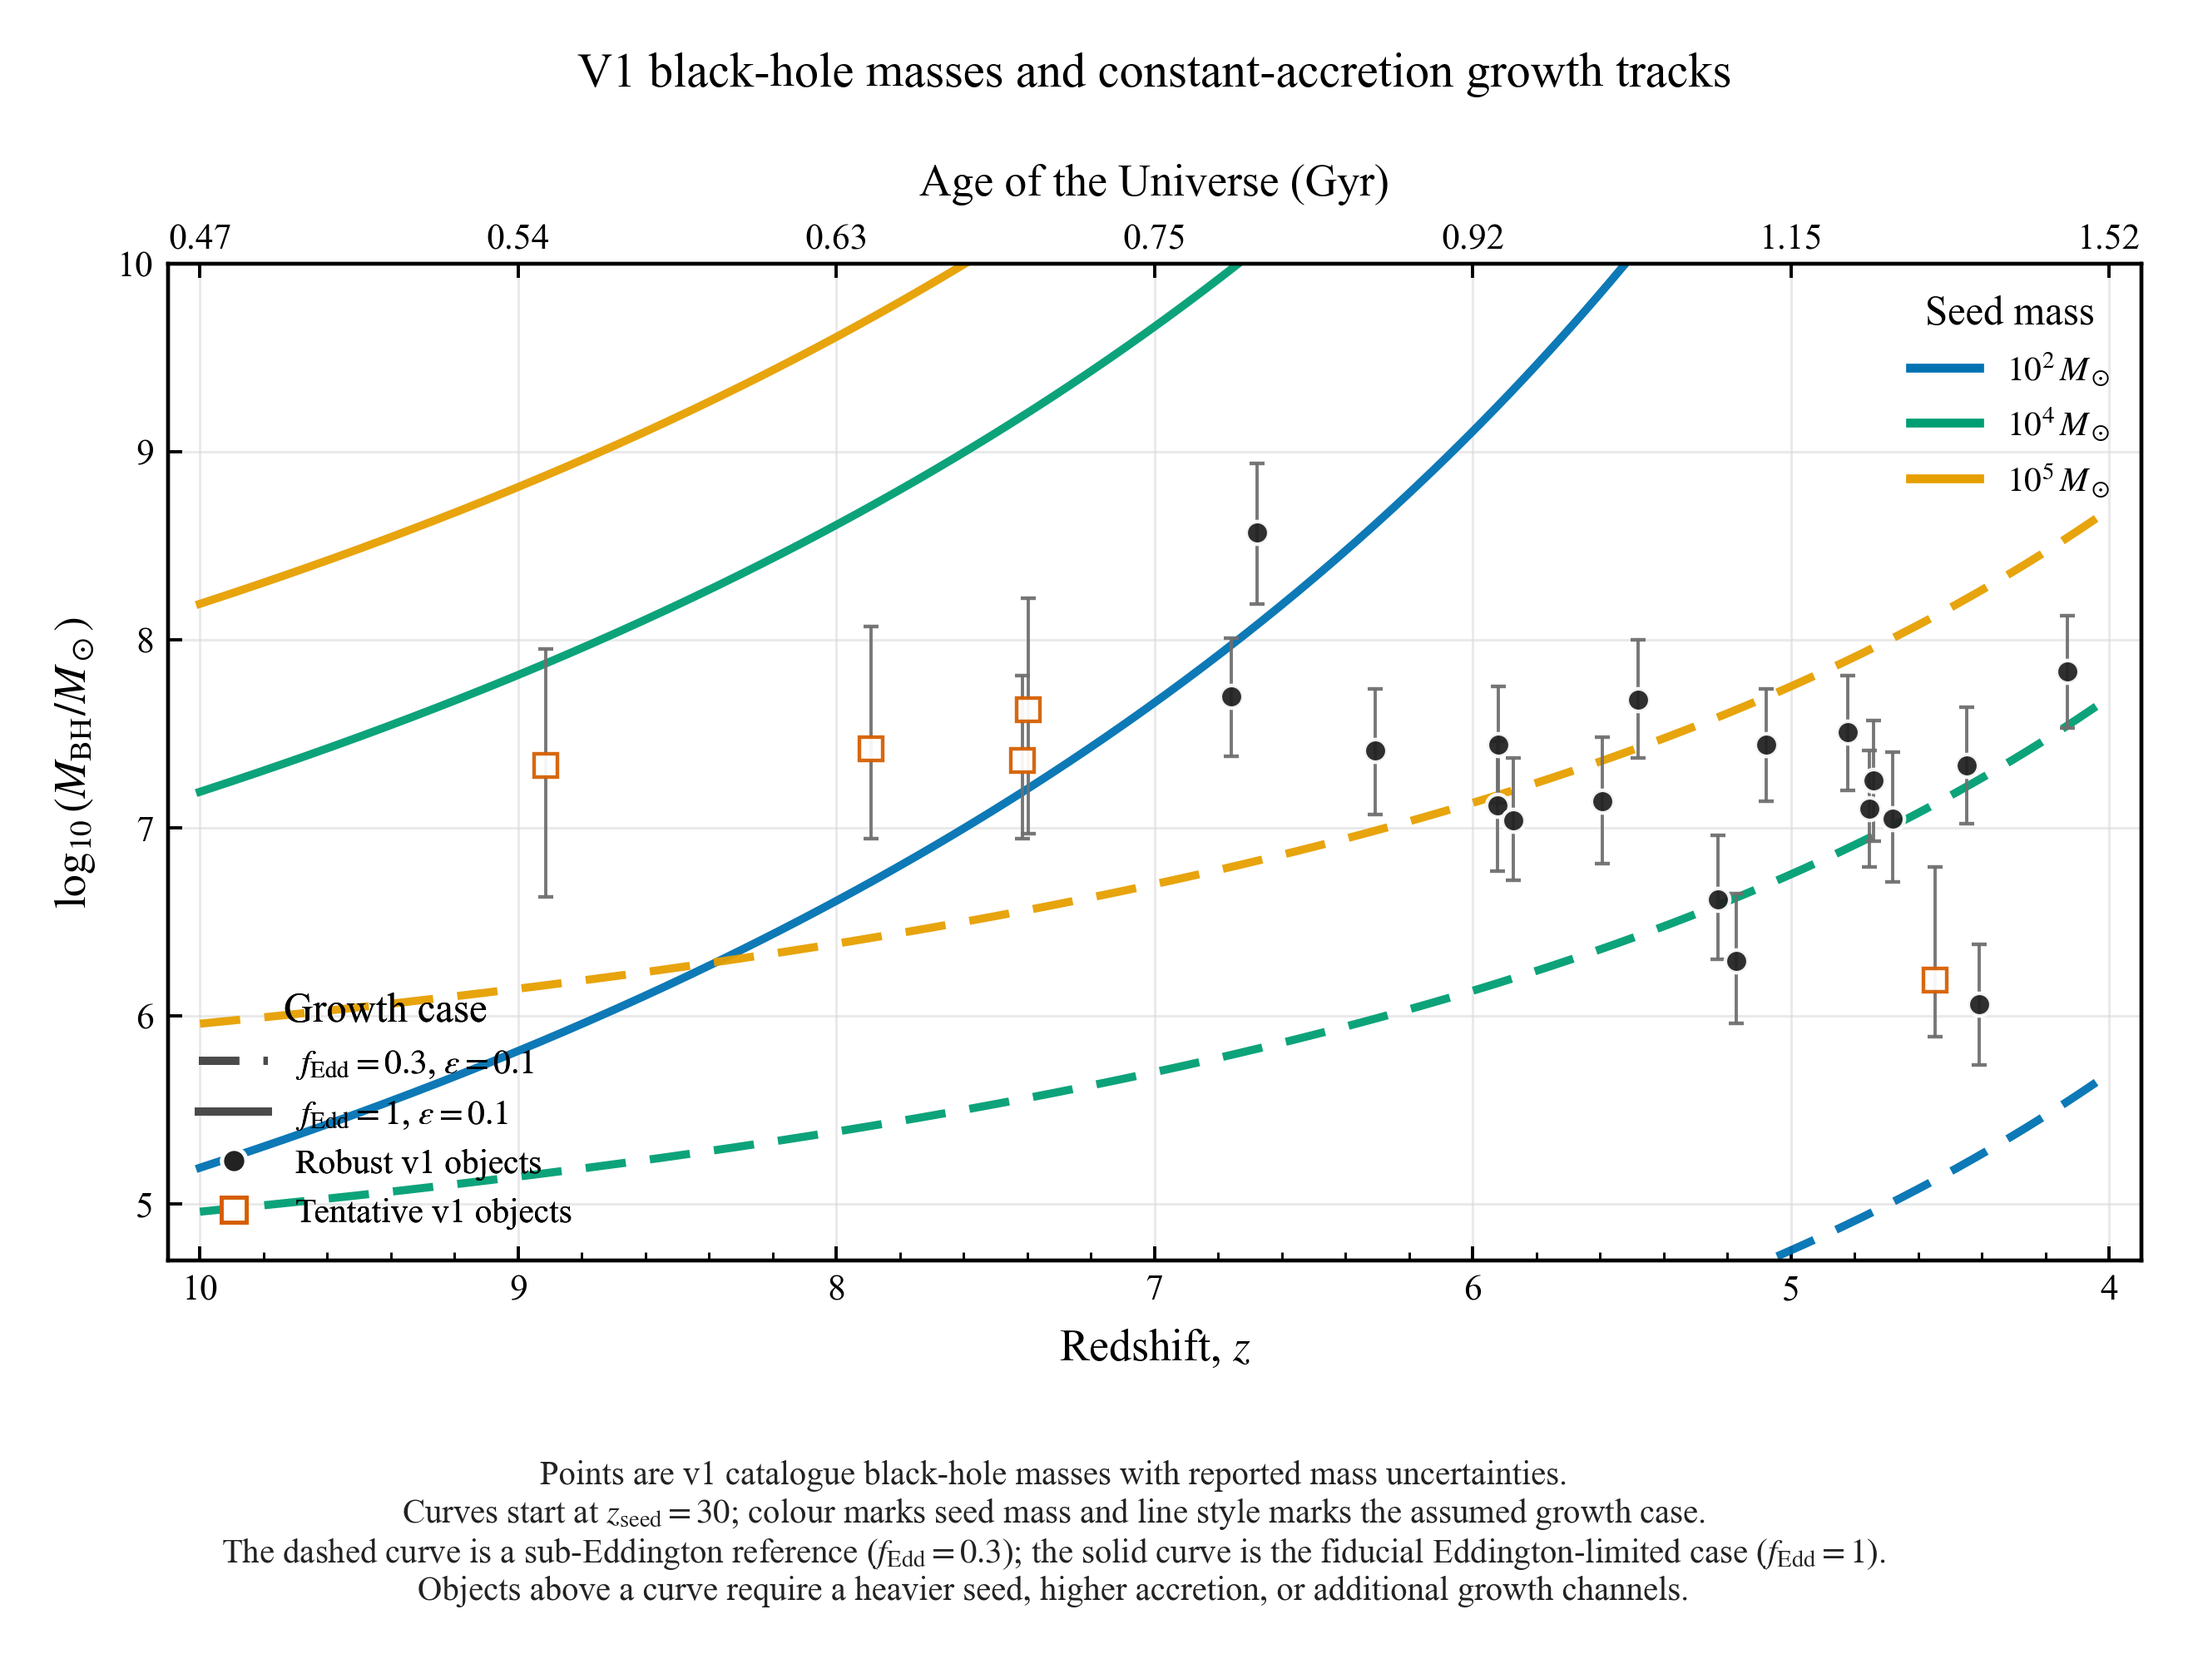
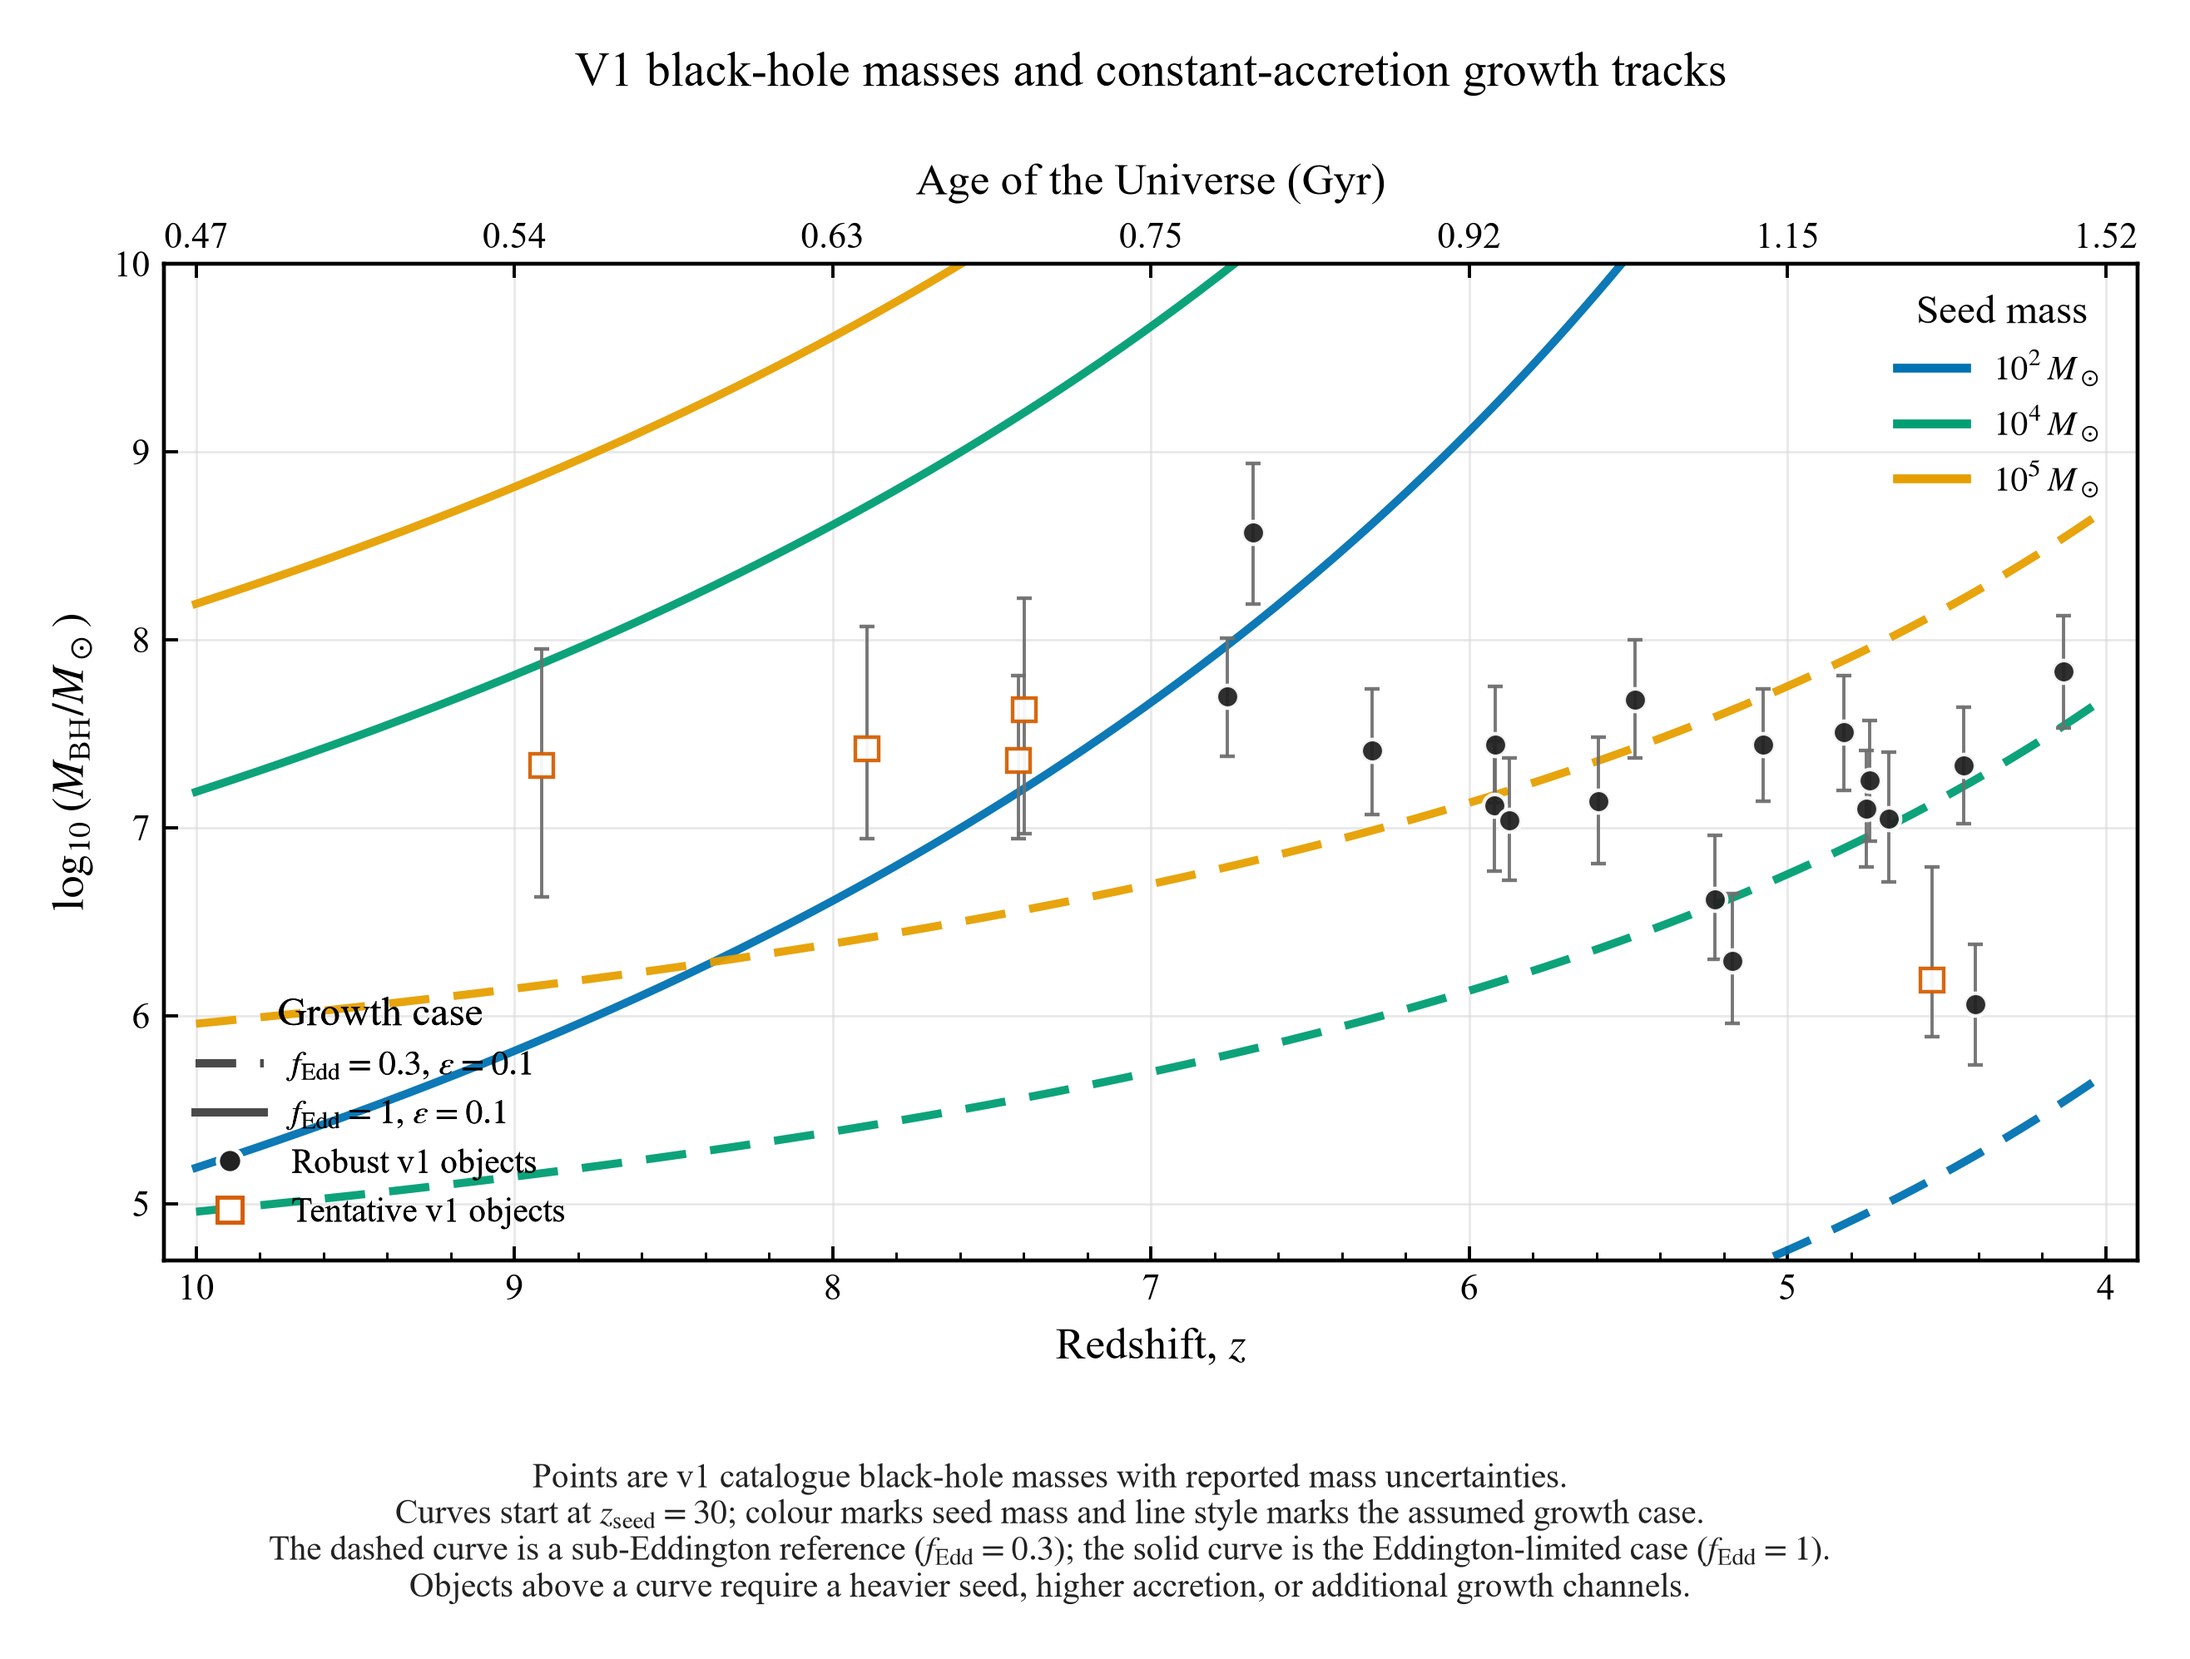
general updates

diff --git a/docs/v2-candidate-black-hole-papers.md b/docs/v2-candidate-black-hole-papers.md
@@ -1,0 +1,67 @@
+# v2 Candidate Black-Hole Object Papers
+
+This is a working source list for expanding the atlas beyond the v1 JADES
+broad-line AGN sample. Priority is given to papers with object-level redshift,
+black-hole mass, bolometric luminosity or Eddington ratio, and host stellar mass
+where available.
+
+## Highest-priority ingestion set
+
+These are the best candidates for v2 rows because they contain direct or
+relatively direct object-level quantities that map onto the current catalogue
+schema.
+
+| Candidate source key | Paper | Main objects/sample | Why it matters for v2 | Likely fields |
+| --- | --- | --- | --- | --- |
+| `juodzbalis25_jades_blagn` | Juodzbalis et al. 2025, "JADES: comprehensive census of broad-line AGN from Reionization to Cosmic Noon revealed by JWST", arXiv:2504.03551 | 34 JADES Type 1 AGN, 1.5 < z < 9 | Already v1; keep as baseline and consistency check. | z, MBH, Lbol, f_Edd, Mstar |
+| `harikane23_nirspec_blagn` | Harikane et al. 2023, "A JWST/NIRSpec First Census of Broad-Line AGNs at z=4-7", arXiv:2303.11946 | 10 faint Type 1 AGN at z = 4.015-6.936 | Early statistical JWST faint-BLAGN sample with host properties. | z, MBH, broad Halpha, Mstar |
+| `kocevski23_ceers_hidden_monsters` | Kocevski et al. 2023, "Hidden Little Monsters", arXiv:2302.00012 | CEERS 1670 and CEERS 3210 at z > 5 | Clean low-luminosity broad-line AGN detections; good bridge between seeds and quasars. | z, MBH, Mstar, line widths |
+| `larson23_ceers1019` | Larson et al. 2023, "A CEERS Discovery of an Accreting Supermassive Black Hole 570 Myr after the Big Bang", arXiv:2303.08918 | CEERS 1019 at z = 8.679 | One of the key early JWST accreting-BH objects; strong growth-model leverage. | z, MBH, Lbol, f_Edd, Mstar |
+| `uebler23_ganifs_gs3073` | Uebler et al. 2023, "GA-NIFS: A massive black hole in a low-metallicity AGN at z~5.55", arXiv:2302.06647 | GS_3073 at z = 5.55 | Low-metallicity AGN with massive BH and host comparison. | z, MBH, metallicity, outflow, host |
+| `matthee23_lrd_eiger_fresco` | Matthee et al. 2023/2024, "Little Red Dots: an abundant population of faint AGN at z~5", arXiv:2306.05448 | 20 broad-Halpha LRD/faint AGN at z = 4.2-5.5 | Core LRD/faint-AGN population; useful for demographics. | z, MBH, line widths, Lbol |
+| `kokorev23_uncover_z850_blagn` | Kokorev et al. 2023, "UNCOVER: A NIRSpec Identification of a Broad Line AGN at z = 8.50", arXiv:2308.11610 | UNCOVER broad-line AGN at z = 8.50 | High-redshift, overmassive BH/host case. | z, MBH, Lbol, f_Edd, Mstar limit, lensing |
+| `furtak23_a2744_qso1` | Furtak et al. 2023/2024, "A high black hole to host mass ratio in a lensed AGN in the early Universe", arXiv:2308.05735 | Abell2744-QSO1 at z = 7.045 | Strongly lensed LRD/AGN; high BH-to-host ratio. | z, MBH, Lbol, f_Edd, Mstar/lower limit, lensing |
+| `maiolino23_gnz11_bh` | Maiolino et al. 2023/2024, "A small and vigorous black hole in the early Universe", arXiv:2305.12492 | GN-z11 at z = 10.6 | Extreme redshift; small, super-Eddington candidate BH. | z, MBH, f_Edd, AGN diagnostics |
+| `bogdan23_uhz1_xray` | Bogdan et al. 2023, "Evidence for heavy seed origin of early supermassive black holes from a z~10 X-ray quasar", arXiv:2305.15458 | UHZ1 at z ~ 10.3 | X-ray-selected/heavily obscured candidate; heavy-seed argument. | z, MBH estimate, Lbol, lensing, X-ray |
+| `goulding23_uhz1_nirspec` | Goulding et al. 2023, "UNCOVER: The growth of the first massive black holes...", arXiv:2308.02750 | UHZ1 at z = 10.073 | Spectroscopic redshift and improved host stellar mass for UHZ1. | z, Mstar, notes, cross-link to X-ray MBH |
+| `natarajan23_uhz1_obg` | Natarajan et al. 2023/2024, "First Detection of an Over-Massive Black Hole Galaxy UHZ1", arXiv:2308.02654 | UHZ1 interpretation | Useful as an interpretation/model companion to Bogdan/Goulding. | interpretation notes |
+| `taylor24_ceers_rubies_blagn` | Taylor et al. 2024, "Broad-Line AGN at 3.5<z<6", arXiv:2409.06772 | 50 CEERS/RUBIES BLAGN at 3.5 < z < 6.8 | Large JWST broad-line sample; likely high value for v2 demographics. | z, MBH, line properties, LRD flag |
+| `tripodi24_canucs_lrd_z86` | Tripodi et al. 2024/2025, "Red, hot, and very metal poor...", arXiv:2412.04983 | CANUCS-LRD-z8.6 at z = 8.6319 | High-redshift, metal-poor LRD with broad Hbeta and inferred MBH ~ 1e8 Msun. | z, MBH, metallicity, host |
+| `juodzbalis25_qso1_direct_mass` | Juodzbalis et al. 2025, "A direct black hole mass measurement in a Little Red Dot at the Epoch of Reionization", arXiv:2508.21748 | Abell2744-QSO1 at z = 7.04 | Direct/dynamical BH mass check on virial estimates; very important for interpretation tags. | z, dynamical MBH, Mstar limit, lensing |
+| `chavezortiz25_ghz2_agn` | Chavez Ortiz et al. 2025, "Significant Evidence of an AGN Contribution in GHZ2 at z = 12.34", arXiv:2511.03035 | GHZ2/GLASS-z12 at z = 12.34 | Candidate highest-redshift AGN/BH; use with caution until interpretation settles. | z, inferred MBH, AGN fraction, caveat |
+
+## Classical high-redshift quasar anchors
+
+These sources are less JWST-like and often have much higher luminosities and
+black-hole masses, but they are useful anchors for the high-mass end and for
+sanity-checking growth tracks.
+
+| Candidate source key | Paper | Main objects/sample | Why it matters for v2 | Likely fields |
+| --- | --- | --- | --- | --- |
+| `mortlock11_ulasj1120` | Mortlock et al. 2011, "A luminous quasar at a redshift of z = 7.085", arXiv:1106.6088 | ULAS J1120+0641 | First z > 7 quasar; classic massive early SMBH benchmark. | z, MBH, luminosity |
+| `derosa14_zgt65_quasars` | De Rosa et al. 2014, "Black hole mass estimates and emission-line properties of a sample of redshift z>6.5 quasars", arXiv:1311.3260 | Four z > 6.5 quasars | Homogeneous early high-z quasar mass/Eddington analysis. | z, MBH, f_Edd, lines |
+| `mazzucchelli17_zgt65_quasars` | Mazzucchelli et al. 2017, "Physical properties of 15 quasars at z greater than about 6.5", arXiv:1710.01251 | 15 z >= 6.5 quasars | Larger homogeneous luminous-quasar set. | z, MBH, f_Edd, MgII |
+| `banados17_j1342` | Banados et al. 2017/2018, "An 800-million-solar-mass black hole in a significantly neutral Universe at redshift 7.5", arXiv:1712.01860 | ULAS J1342+0928 at z = 7.54 | Record-setting quasar; strong early-growth constraint. | z, MBH, Lbol |
+| `yang20_j1007` | Yang et al. 2020, "Poniua'ena: A Luminous z=7.5 Quasar Hosting a 1.5 Billion Solar Mass Black Hole", arXiv:2006.13452 | J1007+2115 at z = 7.515 | Massive SMBH at z > 7.5. | z, MBH, host SFR |
+| `wang21_j0313` | Wang et al. 2021, "A Luminous Quasar at Redshift 7.642", arXiv:2101.03179 | J0313-1806 at z = 7.642 | One of the most massive and distant known luminous quasars. | z, MBH, Lbol, host SFR |
+| `onoue19_shellqs_vi` | Onoue et al. 2019, "SHELLQs. VI. Black Hole Mass Measurements of Six Quasars at 6.1<z<6.7", arXiv:1904.07278 | Six low-luminosity quasars at 6.1 < z < 6.7 | Fainter quasar comparison sample with MgII masses. | z, MBH, f_Edd |
+| `takahashi23_shellqs_xvii` | Takahashi et al. 2023, "SHELLQs. XVII. Black Hole Mass Distribution at z~6", arXiv:2310.12222 | 131 low-luminosity quasars at 5.6 < z < 7.0 | Large low-luminosity z~6 quasar mass distribution; method differs from direct NIR spectroscopy. | z, MBH, f_Edd, method caveat |
+| `wu22_z6_demographics` | Wu et al. 2022, "Demographics of z ~ 6 Quasars in the Black Hole Mass-Luminosity Plane", arXiv:2210.02518 | >100 quasars at 5.7 < z < 6.5 | Population-level check on mass-luminosity selection biases. | derived distributions, selection notes |
+
+## Ingestion notes
+
+- Treat JWST broad-line AGN, LRDs, X-ray AGN, and luminous quasars as separate
+  `object_class` values. Their mass methods and selection functions are not
+  interchangeable.
+- Add a method/provenance field that distinguishes single-epoch virial masses,
+  dynamical/spectroastrometric masses, X-ray/Eddington-assumed masses, and
+  model-inferred AGN contributions.
+- For objects with multiple papers, prefer one measurement row per paper rather
+  than overwriting. This keeps interpretation-dependent quantities visible.
+- The strongest immediate v2 additions after v1 are Harikane et al., Kocevski
+  et al., Larson et al., Kokorev et al., Furtak et al., Maiolino et al.,
+  Bogdan/Goulding/Natarajan for UHZ1, Matthee et al., Taylor et al., Tripodi et
+  al., and the direct-mass Juodzbalis et al. QSO1 paper.
+- Candidate or model-dependent objects, especially GHZ2, should be tagged as
+  `candidate-agn` or similar until the observational interpretation is more
+  secure.
